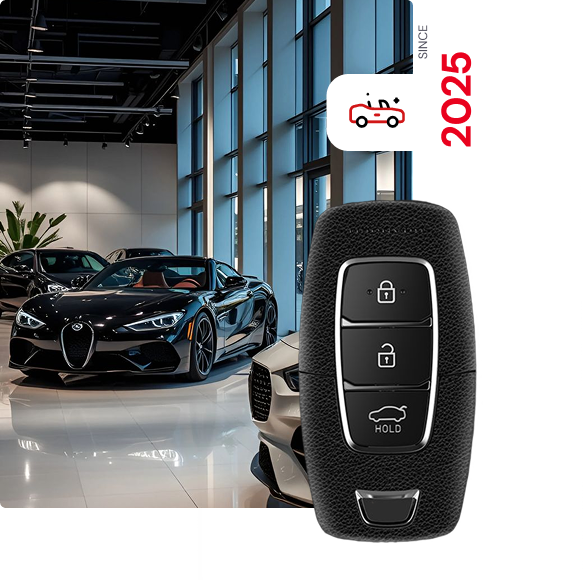
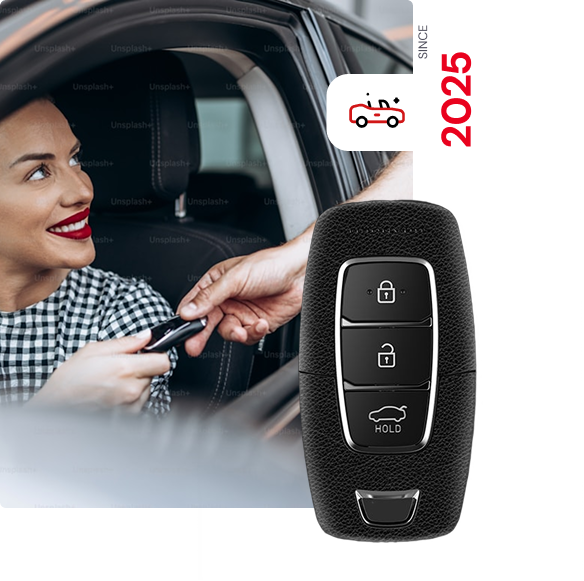
hame page design changes

diff --git a/src/app/components/home/home.component.html b/src/app/components/home/home.component.html
@@ -28,13 +28,13 @@
                         <div class="col-lg-10">
                               <div class="search-box">
                                     <h5 class="mb-2">Carzone - You don't search, you discover.</h5>
-                                    <p class="mb-30">
+                                    <p class="ct_mb_32">
                                           Find your dream car effortlessly through inspiring reels and stories.
                                           Experience cars instead of just looking at them.
                                     </p>
-                                    <section class="mt-5">
+                                    <section class="">
                                           <div class="container">
-                                                <div class="d-flex justify-content-between align-items-center">
+                                                <div class="d-flex justify-content-end align-items-center">
                                                       <div>
                                                             <a class="ct_color_8f0c1f ct_fs_18 ct_fw_500"
                                                                   (click)="onResetFilters()">{{ 'vehicle.reset' |
@@ -42,7 +42,7 @@
                                                       </div>
                                                 </div>
 
-                                                <div class="filter-preview mt-4">
+                                                <div class="filter-preview mt-1">
                                                       <div class="ct_package_select_custom">
                                                             <button nz-button nzType="primary" nz-popover
                                                                   [(nzPopoverVisible)]="visible"
@@ -1201,7 +1201,7 @@
 
                                                 <button type="button" class="favorite-icon"
                                                       [attr.aria-label]="item.isWishlist ? 'Remove from wishlist' : 'Add to wishlist'">
-                                                      <i class="fa-heart ct_fs_25"
+                                                      <i class="fa-heart custom-wishlist-icon"
                                                             [ngClass]="item.isWishlist ? 'fa-solid ct_text_red' : 'fa-regular'"
                                                             (click)="item.isWishlist ? removeFromWishlist(item) : addToWishlist(item)"></i>
                                                 </button>
@@ -1343,14 +1343,74 @@
                         </div>
                   </div>
                   <div class="row g-4">
-                        @for (bodyType of homeBodyTypeCards; track bodyType.label) {
+                        <!-- @for (bodyType of homeBodyTypeCards; track bodyType.label) { -->
                         <div class="col-lg-3 col-md-4 col-sm-6">
-                              <div class="filter-preview-box home-body-type-card w-100">
-                                    <img [src]="bodyType.icon" [alt]="bodyType.label" class="body-type-img-o" />
-                                    <p>{{ bodyType.label }}</p>
+                              <div class=" home-body-type-card w-100">
+                                    <img src="img/Wagon-1.png" alt="" class="body-type-img-o" />
+                                    <p>Wagon</p>
                               </div>
+                              
                         </div>
-                        }
+
+
+                        <div class="col-lg-3 col-md-4 col-sm-6">
+                              <div class=" home-body-type-card w-100">
+                                    <img src="img/Convertible-2.png" alt="" class="body-type-img-o" />
+                                    <p>Convertible</p>
+                              </div>
+                        
+                        </div>
+                        <div class="col-lg-3 col-md-4 col-sm-6">
+                              <div class=" home-body-type-card w-100">
+                                    <img src="img/Sedan-1.png" alt="" class="body-type-img-o" />
+                                    <p>Sedan</p>
+                              </div>
+                        
+                        </div>
+                        <div class="col-lg-3 col-md-4 col-sm-6">
+                              <div class=" home-body-type-card w-100">
+                                    <img src="img/SUV-1.png" alt="" class="body-type-img-o" />
+                                    <p>SUV / Off-road</p>
+                              </div>
+                        
+                        </div>
+
+
+
+
+
+                        <div class="col-lg-3 col-md-4 col-sm-6">
+                              <div class=" home-body-type-card w-100">
+                                    <img src="img/Coupé-1.png" alt="" class="body-type-img-o" />
+                                    <p>Coupé</p>
+                              </div>
+                        
+                        </div>
+                        
+                        
+                        <div class="col-lg-3 col-md-4 col-sm-6">
+                              <div class=" home-body-type-card w-100">
+                                    <img src="img/Pickup-1.png" alt="" class="body-type-img-o" />
+                                    <p>Pick-up
+</p>
+                              </div>
+                        
+                        </div>
+                        <div class="col-lg-3 col-md-4 col-sm-6">
+                              <div class=" home-body-type-card w-100">
+                                    <img src="img/Van-1.png" alt="" class="body-type-img-o" />
+                                    <p>Van</p>
+                              </div>
+                        
+                        </div>
+                        <div class="col-lg-3 col-md-4 col-sm-6">
+                              <div class=" home-body-type-card w-100">
+                                    <img src="img/Compact car-1.png" alt="" class="body-type-img-o" />
+                                    <p>Compact car</p>
+                              </div>
+                        
+                        </div>
+                        <!-- } -->
                   </div>
             </div>
       </section>

diff --git a/public/css/style.css b/public/css/style.css
@@ -599,7 +599,7 @@ body {
 
 /* Hero Section */
 .hero-section {
-  background: url("../img/hero-section.png");
+  background: url("../img/hero-sec11.png");
   background-size: cover;
   background-position: center;
   min-height: 600px;
@@ -1181,10 +1181,11 @@ span.navbar-toggler-icon i {
   width: 100%;
 
   /* padding: 4rem 0; */
-  background-color: red;
-  background: linear-gradient(rgba(209, 23, 24, 0.9), rgba(209, 23, 24, 0.9)),
-    url("../img/cta-buy.png");
-  background-size: cover;
+  background-color: #700101;
+  background: linear-gradient(rgba(112, 1, 1, 0.8)),
+    url("../img/cta-buy.jpg");
+  background-size: contain;
+  
   /* background-position: right; */
 
 
@@ -1201,7 +1202,8 @@ span.navbar-toggler-icon i {
 }
 
 .cta-sell {
-  background: linear-gradient(rgba(0, 0, 0, 0.6), rgba(0, 0, 0, 0.6)),
+  background: 
+  /* linear-gradient(rgba(0, 0, 0, 0.6), rgba(0, 0, 0, 0.6)), */
     url("../img/cta-sell.png");
   background-position: center;
   background-size: cover;
@@ -1465,7 +1467,9 @@ span.navbar-toggler-icon i {
   margin-bottom: 30px;
 }
 
-
+.ct_mb_32{
+  margin-bottom: 32px;
+}
 
 
 

diff --git a/src/app/components/home/home.component.css b/src/app/components/home/home.component.css
@@ -41,23 +41,25 @@
 }
 
 .hero-section {
-  background:
+  /* background:
     linear-gradient(90deg, rgba(16, 16, 14, 0.76) 0%, rgba(16, 16, 14, 0.48) 36%, rgba(16, 16, 14, 0.22) 100%),
-    url('/img/hero-section11.jpg');
+    url('/img/hero-section1'); */
+      background: url("/img/hero-sec11.png");
   background-size: cover;
   background-position: center;
-  min-height: 720px;
+  min-height: 641px;
   padding: 120px 0 80px;
 }
 
-.favorite-icon {
+.favorite-icon .custom-wishlist-icon{
   position: absolute;
   top: 10px;
   right: 10px;
   background-color: #ffffff9e;
   color: #111;
   height: 35px;
-  width: 37px;
+  width: 35px;
+  font-size: 18px;
   display: flex;
   justify-content: center;
   align-items: center;
